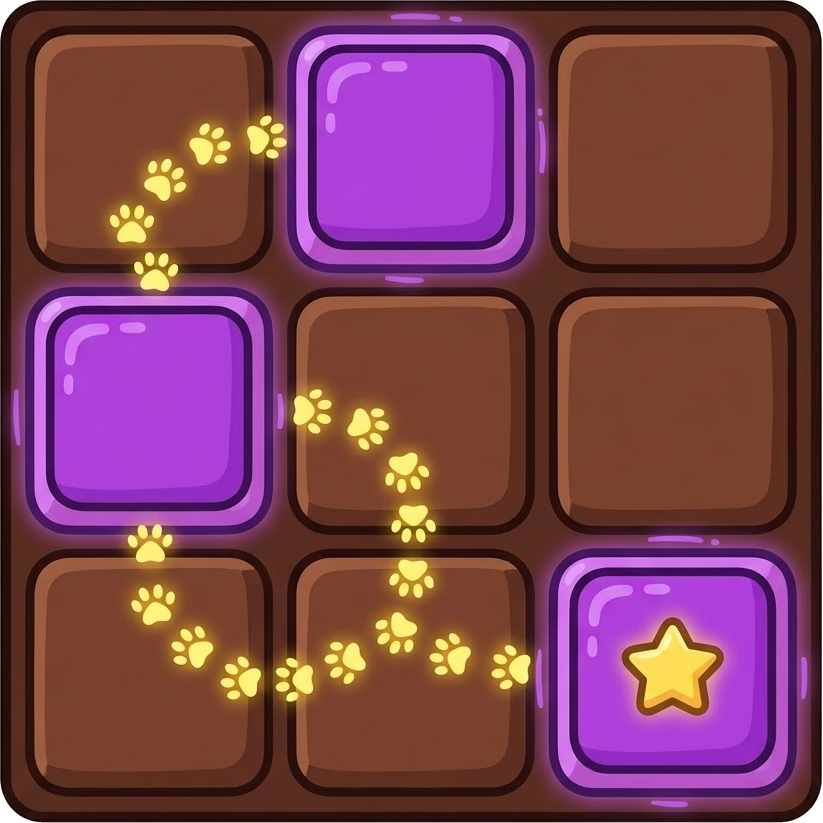
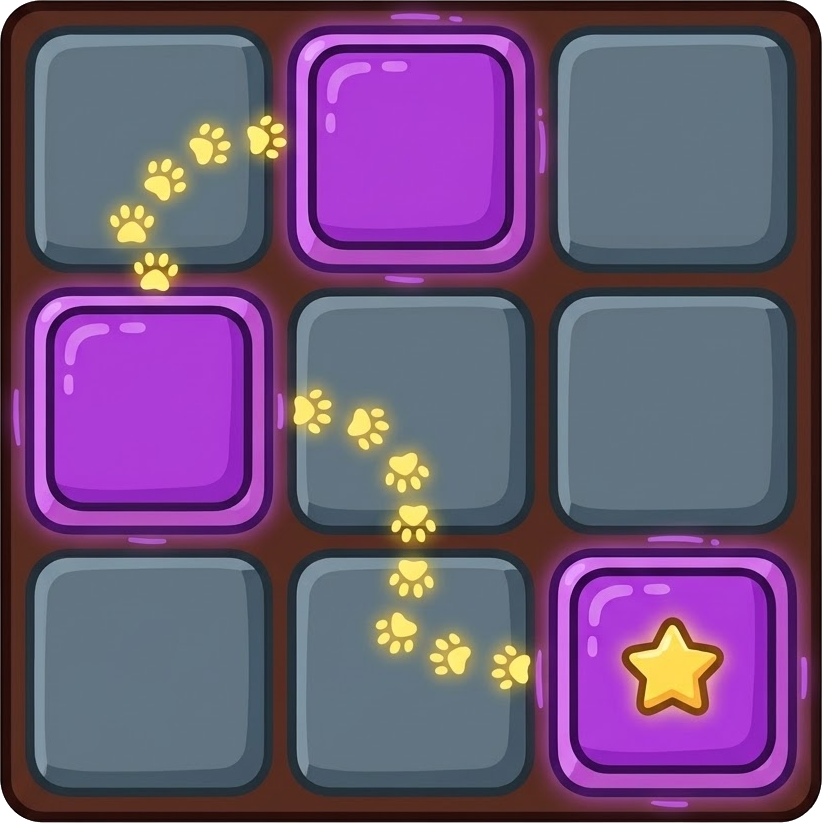
Muestra siluetas misteriosas en lo que aún está bloqueado
- Capítulos bloqueados: silueta del villano (jefe final) o del objeto del minijuego, con "?" y candado
- Mundos que vienen: silueta de un emoji (cohete, pulpo, dinosaurio...) y el nombre oculto
- Al tocar algo bloqueado se sacude y da una pista
- Nuevo ícono de Memoria con casillas grises

diff --git a/juego/nucleo/interfaz.js b/juego/nucleo/interfaz.js
@@ -26,6 +26,63 @@ function backLink(scene, label, cb) {
     .setInteractive({ useHandCursor: true }).on('pointerdown', cb);
 }
 
+// ---------- Siluetas: lo bloqueado se ve como sombra, para dar curiosidad ----------
+// Pinta una figura toda de un color, conservando su forma (canal alfa). Sirve para imágenes y emojis.
+function paintSilhouette(scene, key, w, h, draw, color) {
+  if (scene.textures.exists(key)) return key;
+  const ct = scene.textures.createCanvas(key, w, h);
+  const ctx = ct.getContext();
+  draw(ctx);
+  ctx.globalCompositeOperation = 'source-in';
+  ctx.fillStyle = color || '#0b1020';
+  ctx.fillRect(0, 0, w, h);
+  ctx.globalCompositeOperation = 'source-over';
+  ct.refresh();
+  return key;
+}
+// Silueta de una textura del juego (personaje, objeto...). Si no se puede leer la imagen, devuelve null.
+function silhouetteOf(scene, texKey) {
+  try {
+    const src = scene.textures.get(texKey).getSourceImage();
+    const s = 256 / Math.max(src.width, src.height);
+    const w = Math.round(src.width * s), h = Math.round(src.height * s);
+    return paintSilhouette(scene, 'sil_' + texKey, w, h, ctx => ctx.drawImage(src, 0, 0, w, h));
+  } catch (e) { return null; }
+}
+// Silueta de un emoji (para los mundos que todavía no existen)
+function silhouetteEmoji(scene, emoji) {
+  return paintSilhouette(scene, 'sil_emoji_' + emoji, 256, 256, ctx => {
+    ctx.font = '210px "Segoe UI Emoji", "Apple Color Emoji", "Noto Color Emoji", sans-serif';
+    ctx.textAlign = 'center'; ctx.textBaseline = 'middle';
+    ctx.fillText(emoji, 128, 140);
+  });
+}
+// Silueta misteriosa dentro de un círculo: fondo con luz suave, la sombra y un "?" que palpita
+function mysteryNode(scene, x, y, r, silKey, accent) {
+  const objs = [];
+  objs.push(scene.add.circle(x, y, r, 0x475569).setStrokeStyle(4, accent === undefined ? 0x64748b : accent, 0.8));
+  objs.push(scene.add.circle(x, y, r * 0.78, 0x64748b, 0.6));
+  if (silKey) {
+    const img = fit(scene.add.image(x, y + 2, silKey), r * 1.55);
+    objs.push(img);
+    scene.tweens.add({ targets: img, y: y - 3, duration: 1300, yoyo: true, repeat: -1, ease: 'Sine.easeInOut' });
+  }
+  const q = scene.add.text(x + r * 0.62, y - r * 0.62, '?', { font: 'bold ' + Math.round(r * 0.6) + 'px Arial', color: '#fde047', stroke: '#0f172a', strokeThickness: 6 }).setOrigin(0.5);
+  scene.tweens.add({ targets: q, scale: 1.2, duration: 700, yoyo: true, repeat: -1, ease: 'Sine.easeInOut' });
+  objs.push(q);
+  return objs;
+}
+// Tocar algo bloqueado: se sacude y da una pista abajo
+function teaseLocked(scene, objs, msg) {
+  if (scene.teasing) return;
+  scene.teasing = true;
+  fizzleSound();
+  scene.tweens.add({ targets: objs, x: '+=6', duration: 50, yoyo: true, repeat: 3 });
+  const t = scene.add.text(GAME_W / 2, GAME_H - 30, msg,
+    { font: 'bold 20px Arial', color: '#fde047', stroke: '#0f172a', strokeThickness: 5 }).setOrigin(0.5).setDepth(30);
+  scene.time.delayedCall(2200, () => { t.destroy(); scene.teasing = false; });
+}
+
 function starsText(n) { return '★'.repeat(n) + '☆'.repeat(3 - n); }
 
 // Texto común de resultados para el niño (estrellas + qué tan bien le fue)

diff --git a/juego/modos/historia/mapa_capitulos.js b/juego/modos/historia/mapa_capitulos.js
@@ -40,8 +40,16 @@ class ChapterMapScene extends Phaser.Scene {
         else this.add.text(x, y, String(i + 1), { font: 'bold 36px Arial', color: '#0f172a' }).setOrigin(0.5);
         if (i === current) this.add.text(x, y + r + 50, '¡Jugar!', { font: 'bold 18px Arial', color: hexColor(th.accent) }).setOrigin(0.5);
       } else {
-        node = this.add.circle(x, y, r, ch.boss ? 0x3b1f6e : 0xffffff, ch.boss ? 1 : 0.1);
-        fit(this.add.image(x, y, 'icon_lock'), ch.boss ? 52 : 40);
+        // Bloqueado: la silueta de lo que hay adentro (el villano en el jefe final, el objeto del minijuego
+        // en los demás), con un "?" y un candado pequeño, para dar curiosidad
+        const what = ch.boss ? TEX[this.themeKey].villain
+          : { classic: TEX[this.themeKey].target, catch: 'basket', race: TEX[this.themeKey].hero_run, find: 'icon_find' }[ch.mg];
+        const objs = mysteryNode(this, x, y, r, silhouetteOf(this, what), ch.boss ? 0x7c3aed : undefined);
+        objs.push(fit(this.add.image(x - r * 0.7, y + r * 0.7, 'icon_lock'), ch.boss ? 30 : 24));
+        node = objs[0].setInteractive({ useHandCursor: true });
+        node.on('pointerdown', () => teaseLocked(this, objs, ch.boss
+          ? '¿Quién se esconde aquí? Supera los capítulos para descubrirlo'
+          : '¿Qué habrá aquí? Supera el capítulo anterior para descubrirlo'));
       }
       this.add.text(x, y + r + 22, ch.place, { font: 'bold 17px Arial', color: '#ffffff' }).setOrigin(0.5).setAlpha(unlocked ? 1 : 0.55);
       if (unlocked) {

diff --git a/juego/modos/historia/mapa_mundos.js b/juego/modos/historia/mapa_mundos.js
@@ -2,6 +2,8 @@
 
 // Mundos del mapa: los 3 primeros ya se pueden jugar; el resto llega pronto.
 const MAP_WORLDS = ['heroes', 'fantasy', 'kingdom', 'Espacio', 'Océano', 'Dinosaurios', 'Robots', 'Selva', 'Dulces'];
+// Silueta de cada mundo que viene (emoji pintado de sombra), para dar curiosidad sin decir el nombre
+const COMING_WORLDS = { 'Espacio': '🚀', 'Océano': '🐙', 'Dinosaurios': '🦖', 'Robots': '🤖', 'Selva': '🐒', 'Dulces': '🍭' };
 
 class WorldMapScene extends Phaser.Scene {
   constructor() { super('WorldMap'); }
@@ -31,10 +33,11 @@ class WorldMapScene extends Phaser.Scene {
         c.on('pointerout', () => c.setScale(1));
         c.on('pointerdown', () => this.scene.start('ChapterMap', { theme: w }));
       } else {
-        this.add.circle(x, y, 52, 0x1e293b).setStrokeStyle(5, 0x475569);
-        fit(this.add.image(x, y, 'icon_lock'), 46);
-        this.add.text(x, y + 72, w, { font: 'bold 18px Arial', color: '#ffffff' }).setOrigin(0.5).setAlpha(0.55);
+        const objs = mysteryNode(this, x, y, 52, silhouetteEmoji(this, COMING_WORLDS[w]));
+        this.add.text(x, y + 72, '¿ ? ? ?', { font: 'bold 18px Arial', color: '#ffffff' }).setOrigin(0.5).setAlpha(0.7);
         this.add.text(x, y + 96, 'Pronto', { font: 'bold 15px Arial', color: '#94a3b8' }).setOrigin(0.5);
+        objs[0].setInteractive({ useHandCursor: true })
+          .on('pointerdown', () => teaseLocked(this, objs, '¿Qué mundo será? ¡Muy pronto lo descubrirás!'));
       }
     });
   }
